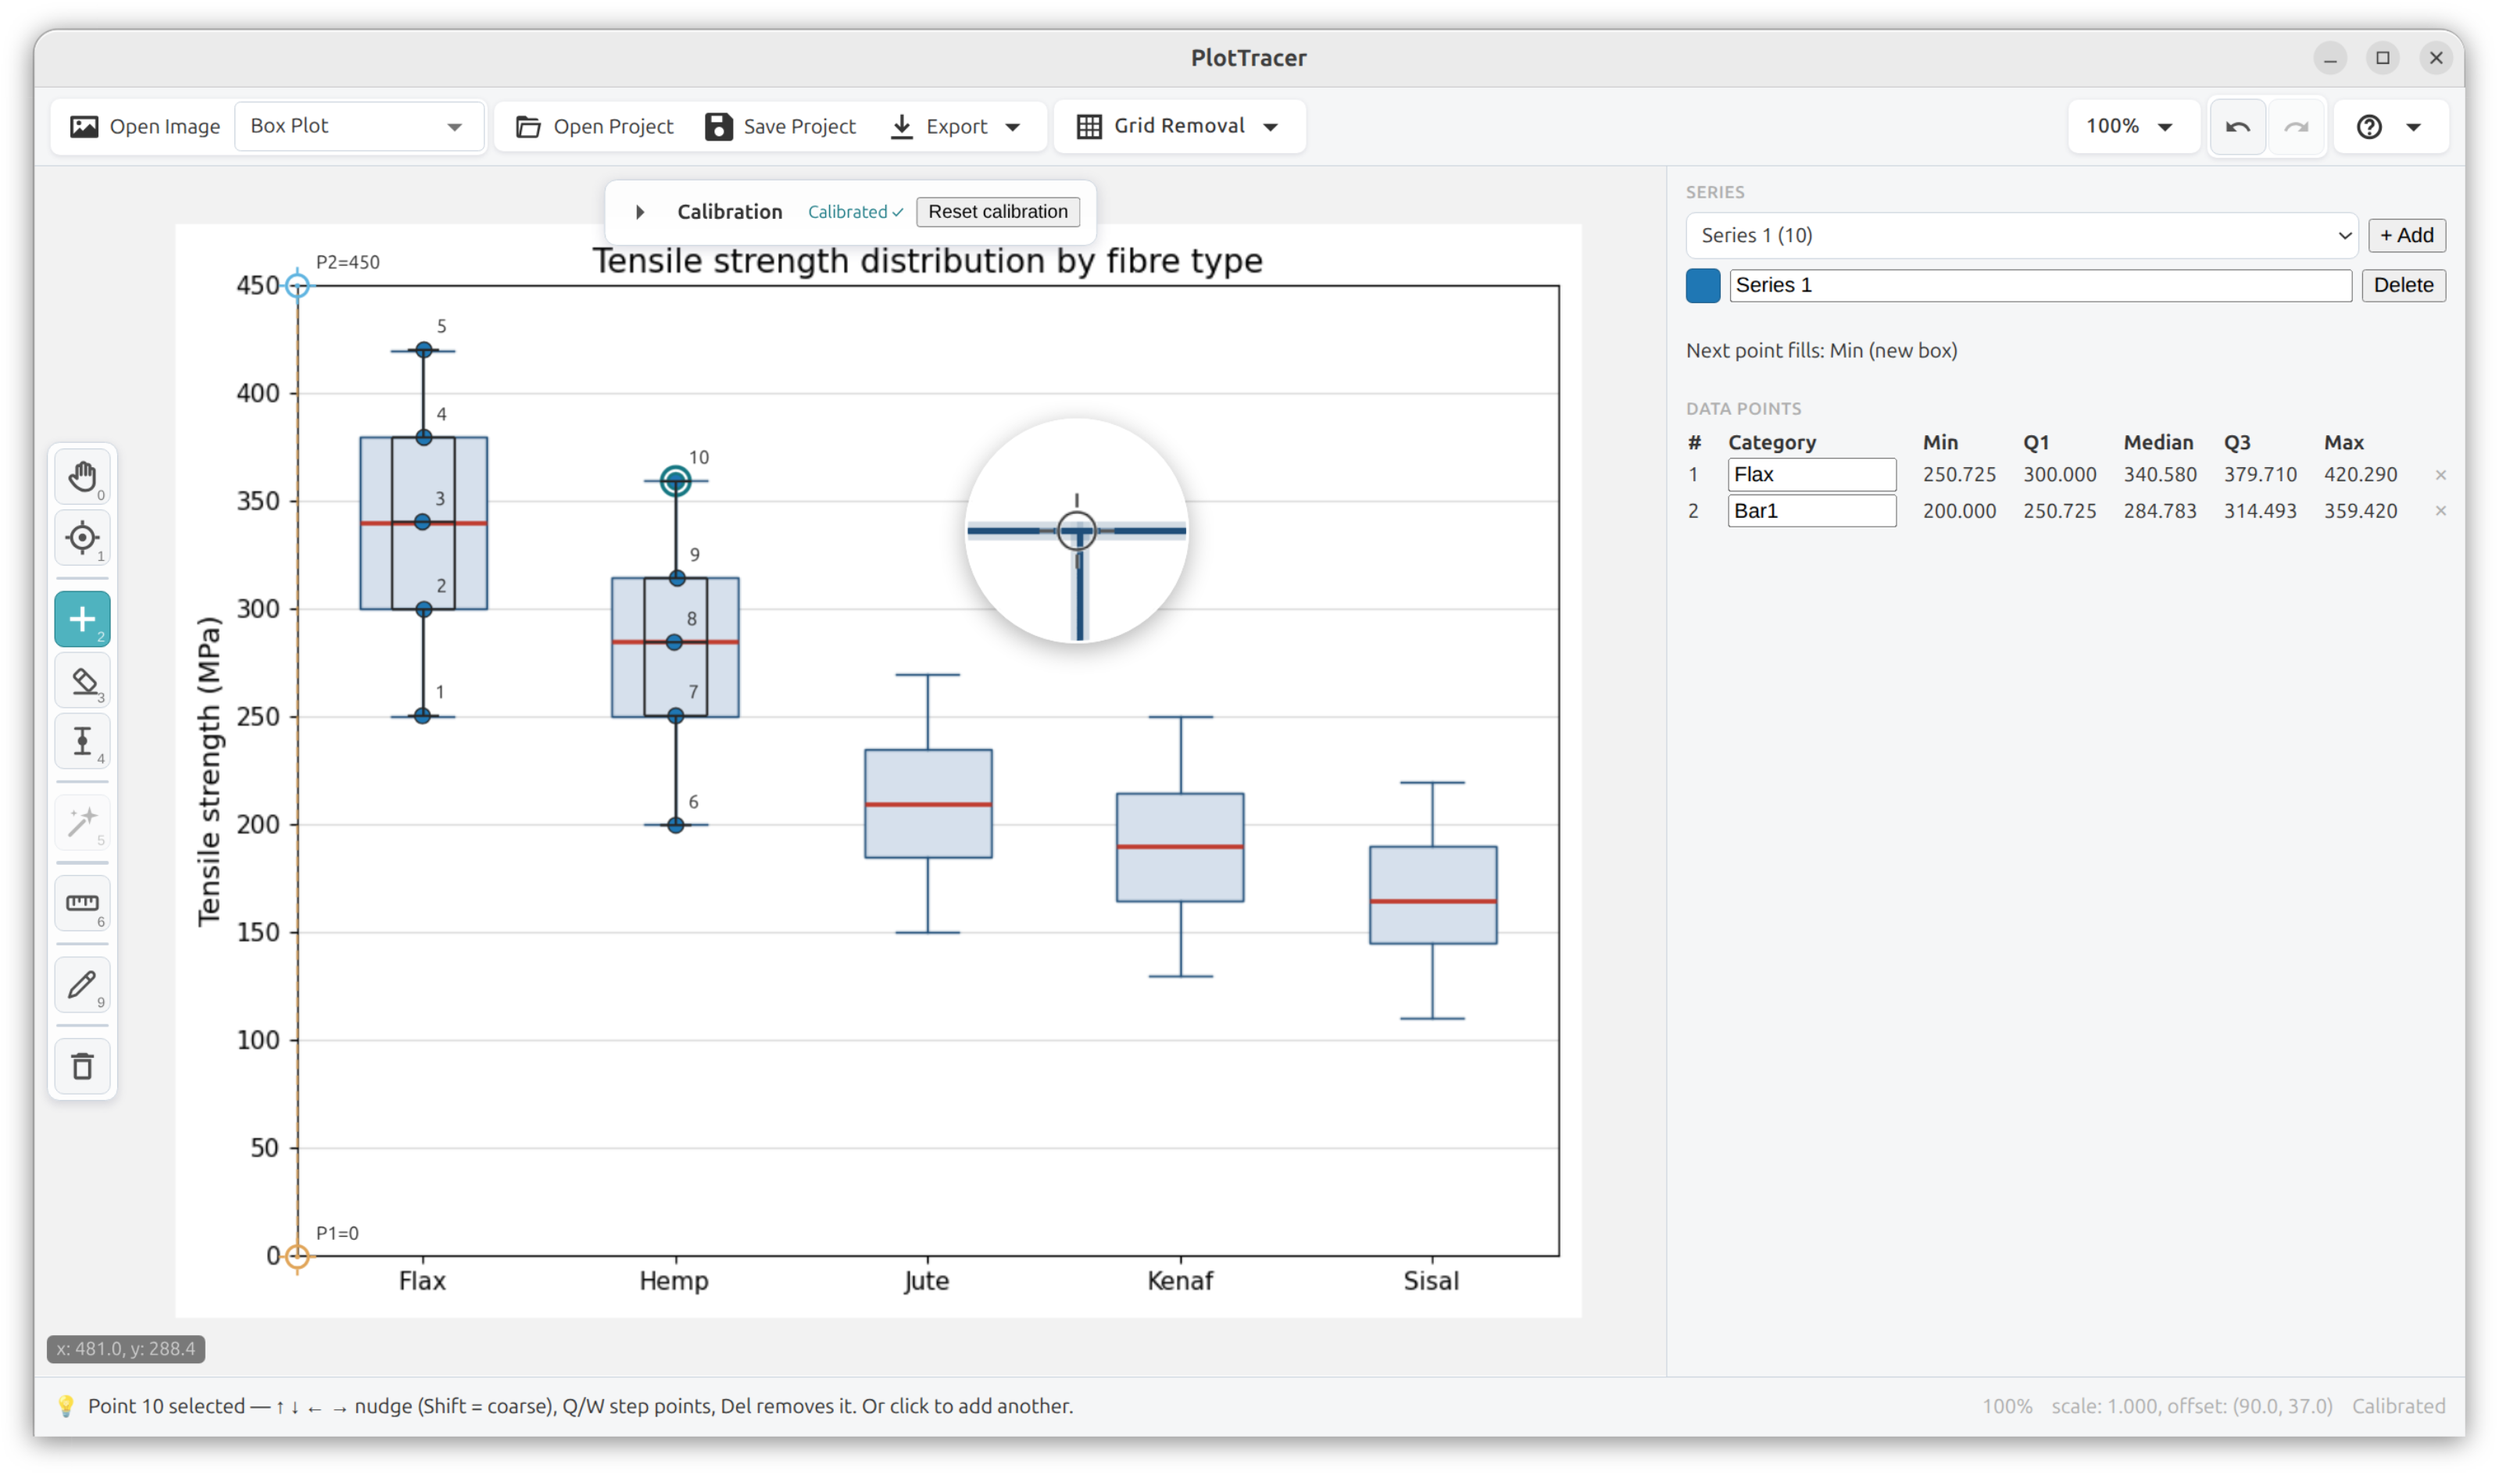
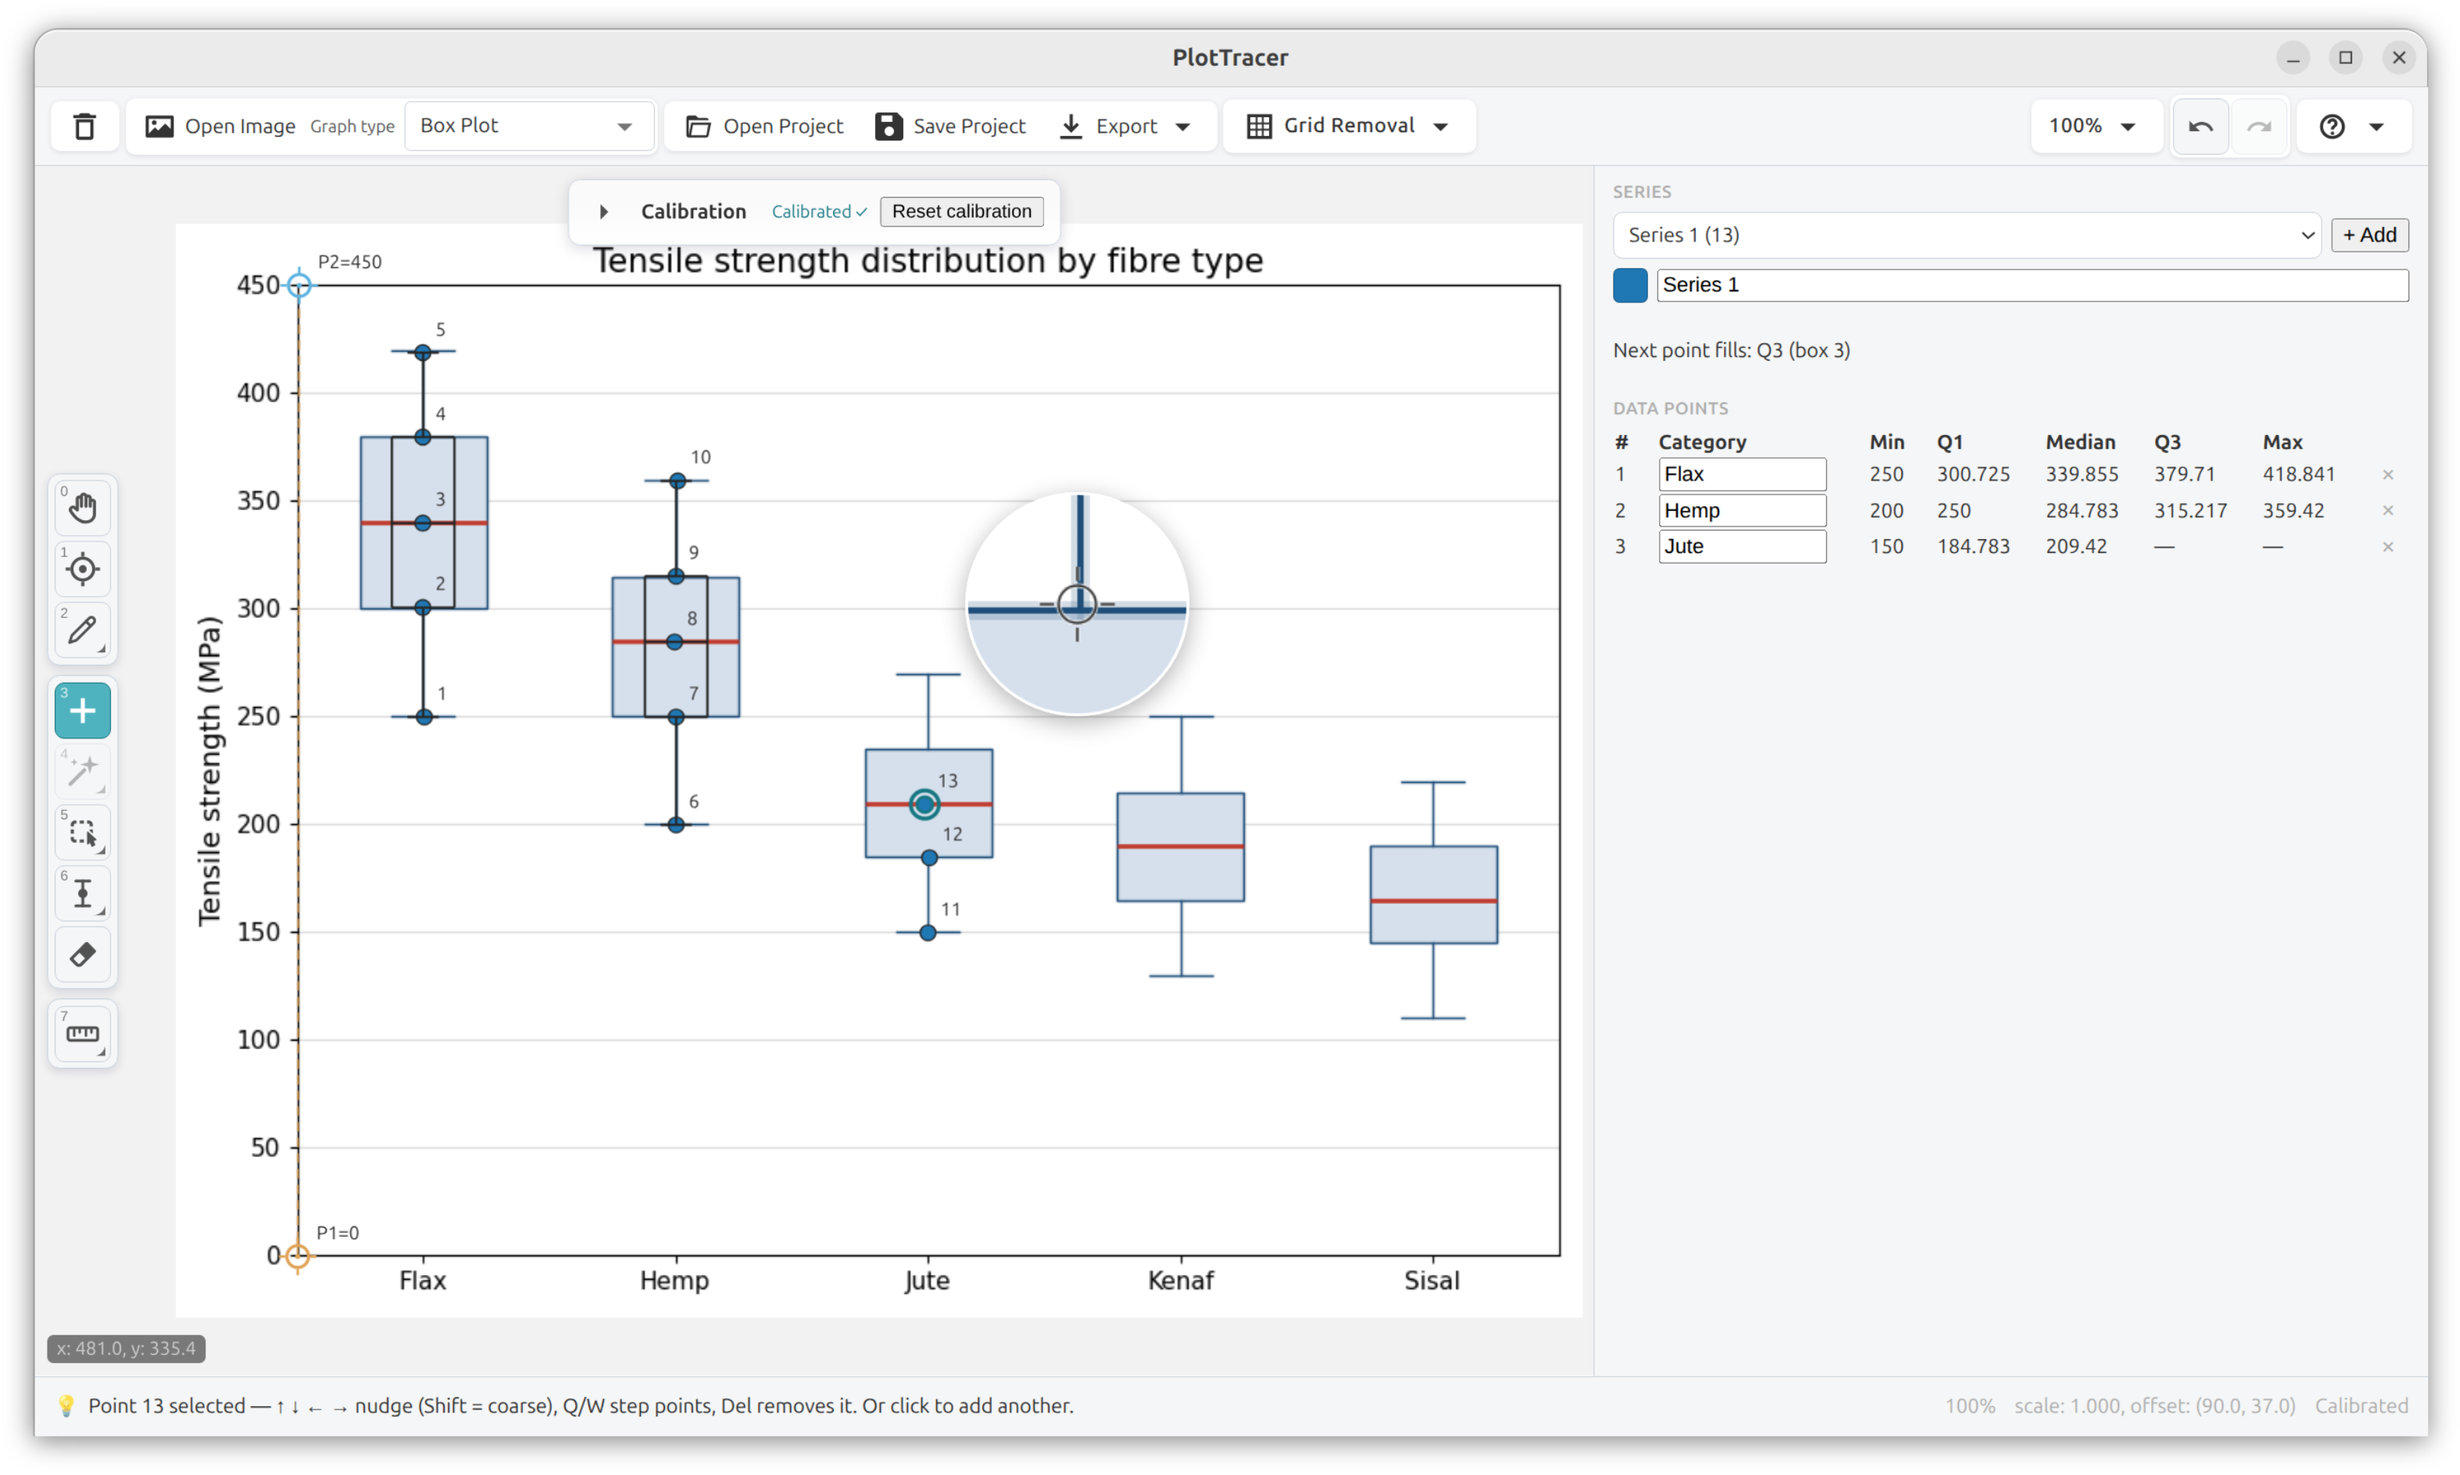
docs: reshoot the last two screenshots -- the gallery is now all v1.1
Closes the refresh started in d85cb48. Box plot and error bars were the two
still showing the pre-v1.1 app; every gallery image is now the current UI.

⚑ Both are deliberately shot MID-CAPTURE, because the subject is digitization in
action rather than a finished table. The box plot sits on "Next point fills: Q3
(box 3)" with em-dashes in the slots not yet placed; the error-bar shot has caps
on four of six points, blank SD cells on the rest, and the fold-out's "Recorded:
SD upper 4 / SD lower 4" agreeing with that count. A fully populated table would
read as a spreadsheet someone typed. Half-populated, it shows values arriving one
at a time off the figure -- and shows the record admitting what it does not yet
hold, which is the honest half of tenet 9.

Box plot: shot wide enough (3148) to fit all five columns, because Min / Q1 /
Median / Q3 / Max side by side is precisely what its caption promises and the
narrower window scrolled Q3 and Max out of view. Categories typed as Flax /
Hemp / Jute rather than left as the Bar0/Bar1/Bar2 defaults -- the caption leans
on the word "named", and defaults undercut it.

Error bars: taken from INSIDE the Error-bars tool, fold-out open. That matters
for a picture about capturing error bars: the tips bar narrates the act on
display ("drag from a data point out to its error cap; a cap is placed on each
side") instead of the selection message an earlier take carried, and the card's
[…]

diff --git a/docs/index.html b/docs/index.html
@@ -448,7 +448,7 @@
         <figcaption><b>Scatter &amp; curve fit.</b> Fit a model through the points — the fit exports as its own block, never mixed into the record.</figcaption>
       </figure>
       <figure class="shot-card">
-        <img class="shot" src="assets/shot-errorbars.png" width="2888" height="1888"
+        <img class="shot" src="assets/shot-errorbars.png" width="3150" height="1888"
           alt="A plot in PlotTracer with error bars captured on the data points.">
         <figcaption><b>Error &amp; uncertainty.</b> Capture real error bars — asymmetric and all — without inventing symmetry or defaults.</figcaption>
       </figure>
@@ -458,7 +458,7 @@
         <figcaption><b>True histogram bins.</b> Records the interval each bar spans and its height — genuine bin edges, not just centres.</figcaption>
       </figure>
       <figure class="shot-card">
-        <img class="shot" src="assets/shot-boxplot.png" width="3198" height="1888"
+        <img class="shot" src="assets/shot-boxplot.png" width="3148" height="1888"
           alt="A box-and-whisker plot in PlotTracer with quartiles captured per category.">
         <figcaption><b>Box plots.</b> Quartiles and whiskers captured per category, named and exported side by side.</figcaption>
       </figure>
